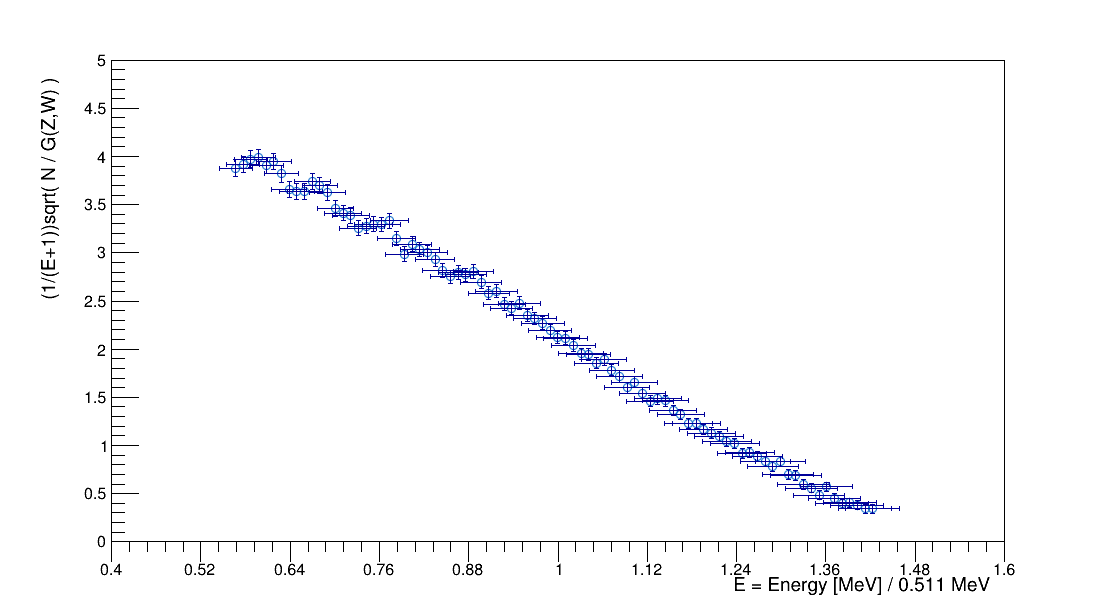
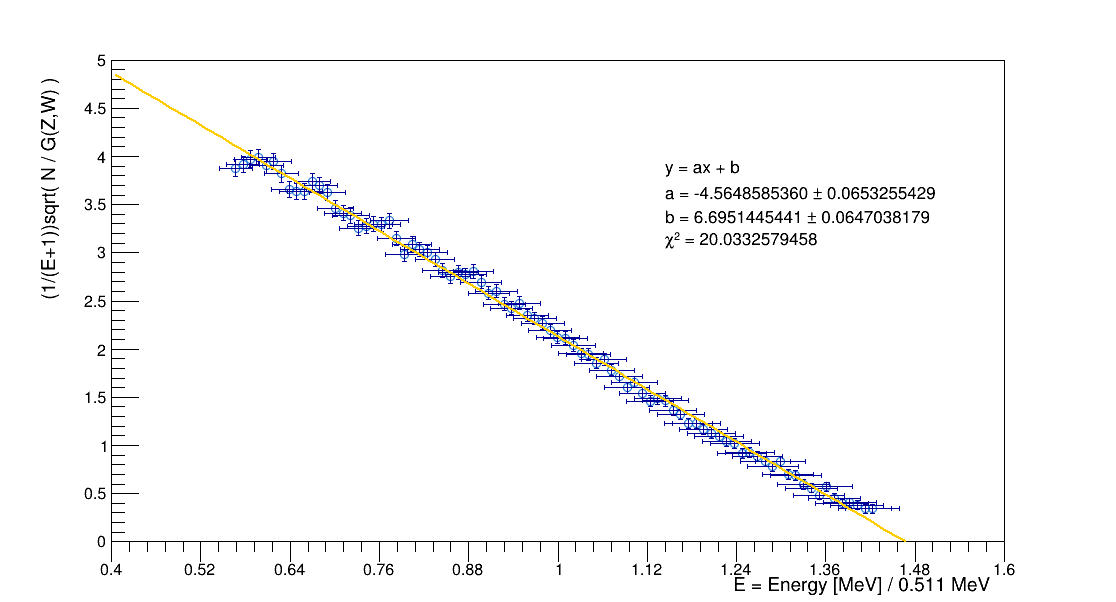
betas e tals

diff --git a/OTHER PROGRAMMES/lab_tests/main/main.cpp b/OTHER PROGRAMMES/lab_tests/main/main.cpp
@@ -131,6 +131,10 @@ int main(){
     }
 
     TGraphErrors* g3 = new TGraphErrors(Xl.size(), Xl.data(), Yl.data(), eXl.data(), eYl.data());
+    TF1* f = new TF1("f", "[0]*x + [1]",0,10);
+    f->SetParameter(0,-4.565);
+    f->SetParameter(1,6.695);
+    f->SetLineColor(kOrange);
 
     g3->SetTitle("");
     g3->SetMarkerStyle(4);
@@ -149,10 +153,29 @@ int main(){
     g3->GetYaxis()->SetRangeUser(0, 5);
     g3->GetYaxis()->SetNdivisions(-510);
 
-
-    TF1* f = new TF1("f", "[0] * x + [1]");
-    g3->Draw("AP");
     g3->Fit("f");
+
+
+    TPaveText* pt = new TPaveText(1.12, 3, 1.6, 4, "user");
+
+    pt->SetTextSize(0.03);
+    pt->SetFillColor(0);
+    pt->SetTextAlign(12);
+    pt->SetTextFont(42);
+
+    pt->AddText(Form("y = ax + b"));
+    pt->AddText(Form("a = %.10f %c %.10f", f->GetParameter(0), 0xB1, f->GetParError(0)));
+    pt->AddText(Form("b = %.10f %c %.10f", f->GetParameter(1), 0xB1, f->GetParError(1)));
+    pt->AddText(Form("#chi^{2} = %.10f", f->GetChisquare()));
+    
+
+    
+    g3->Draw("AP");
+    f->Draw("same");
+    pt->Draw("same");
+    
+    std::cout << "Chi squared: " << f->GetChisquare() << "\n";
+
 
 
 

diff --git a/OTHER PROGRAMMES/lab_tests/src/includes.h b/OTHER PROGRAMMES/lab_tests/src/includes.h
@@ -19,6 +19,7 @@
 #include "TGraph.h"
 #include "TGraphErrors.h"
 #include "TStyle.h"
+#include "TPaveText.h"
 
 #include "TH1F.h"
 #include "TH1.h"
